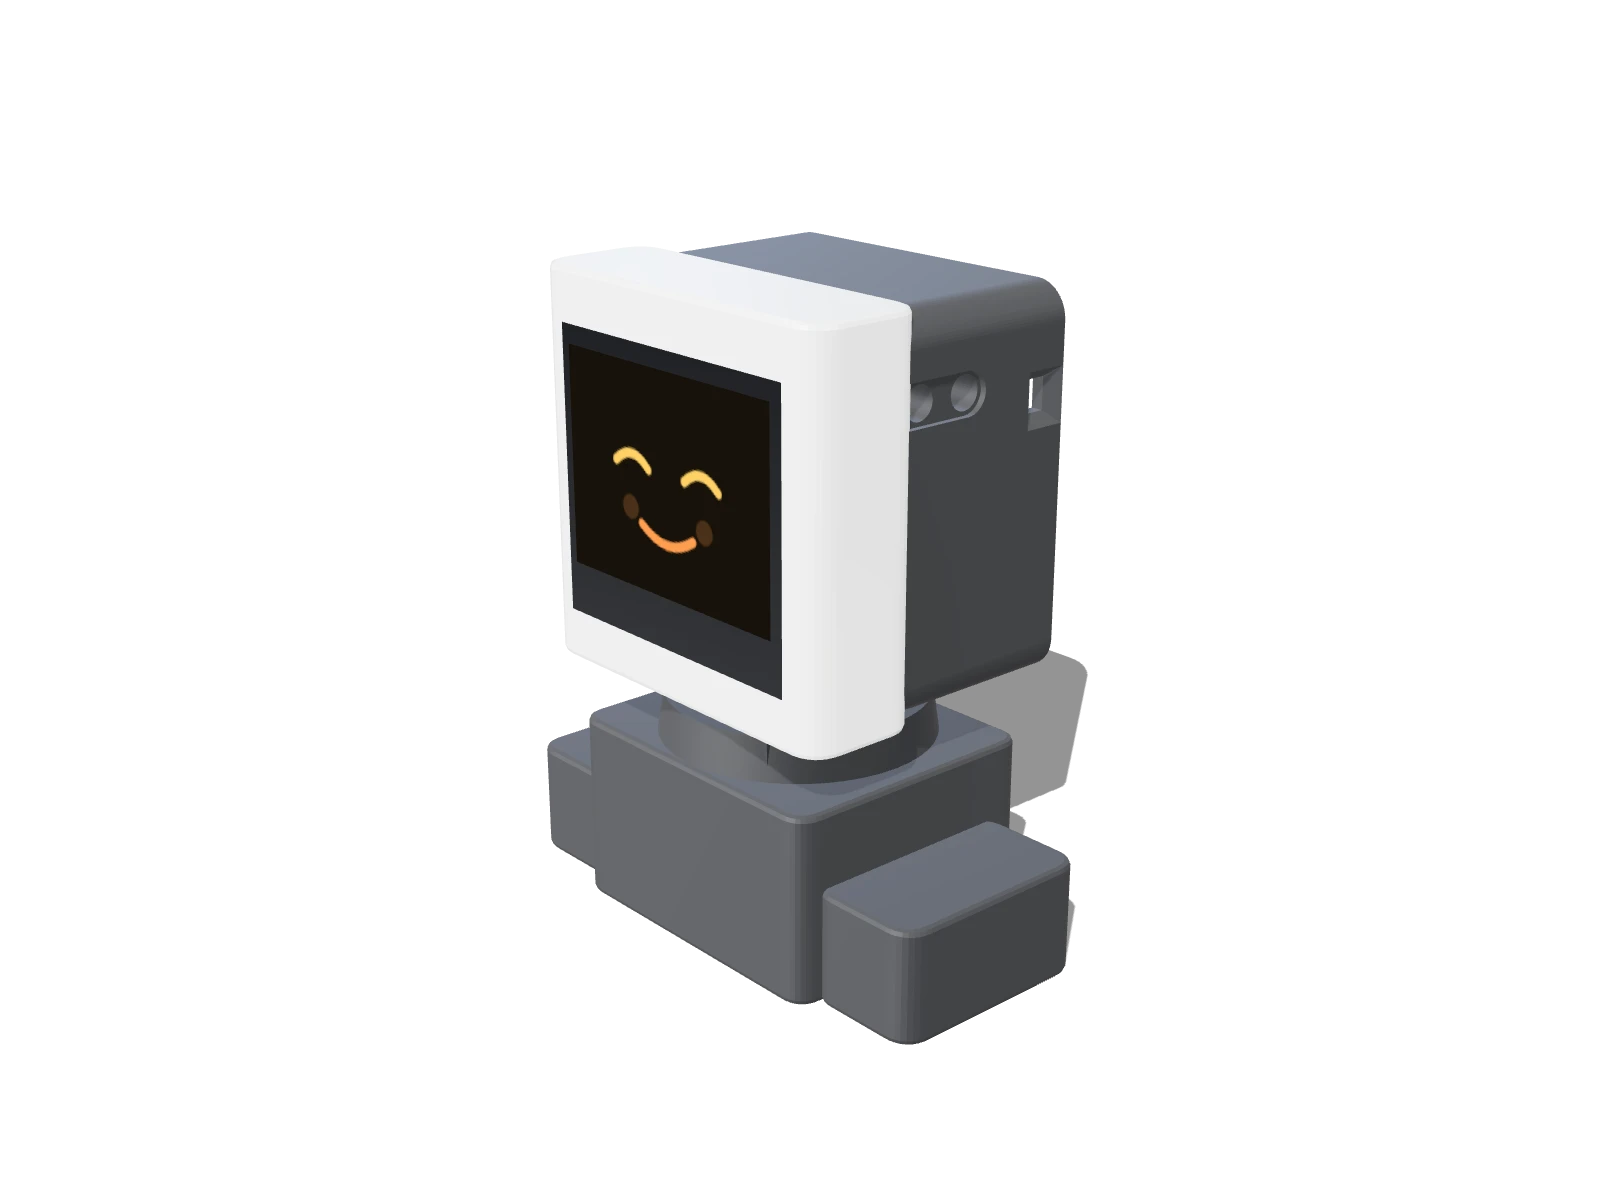
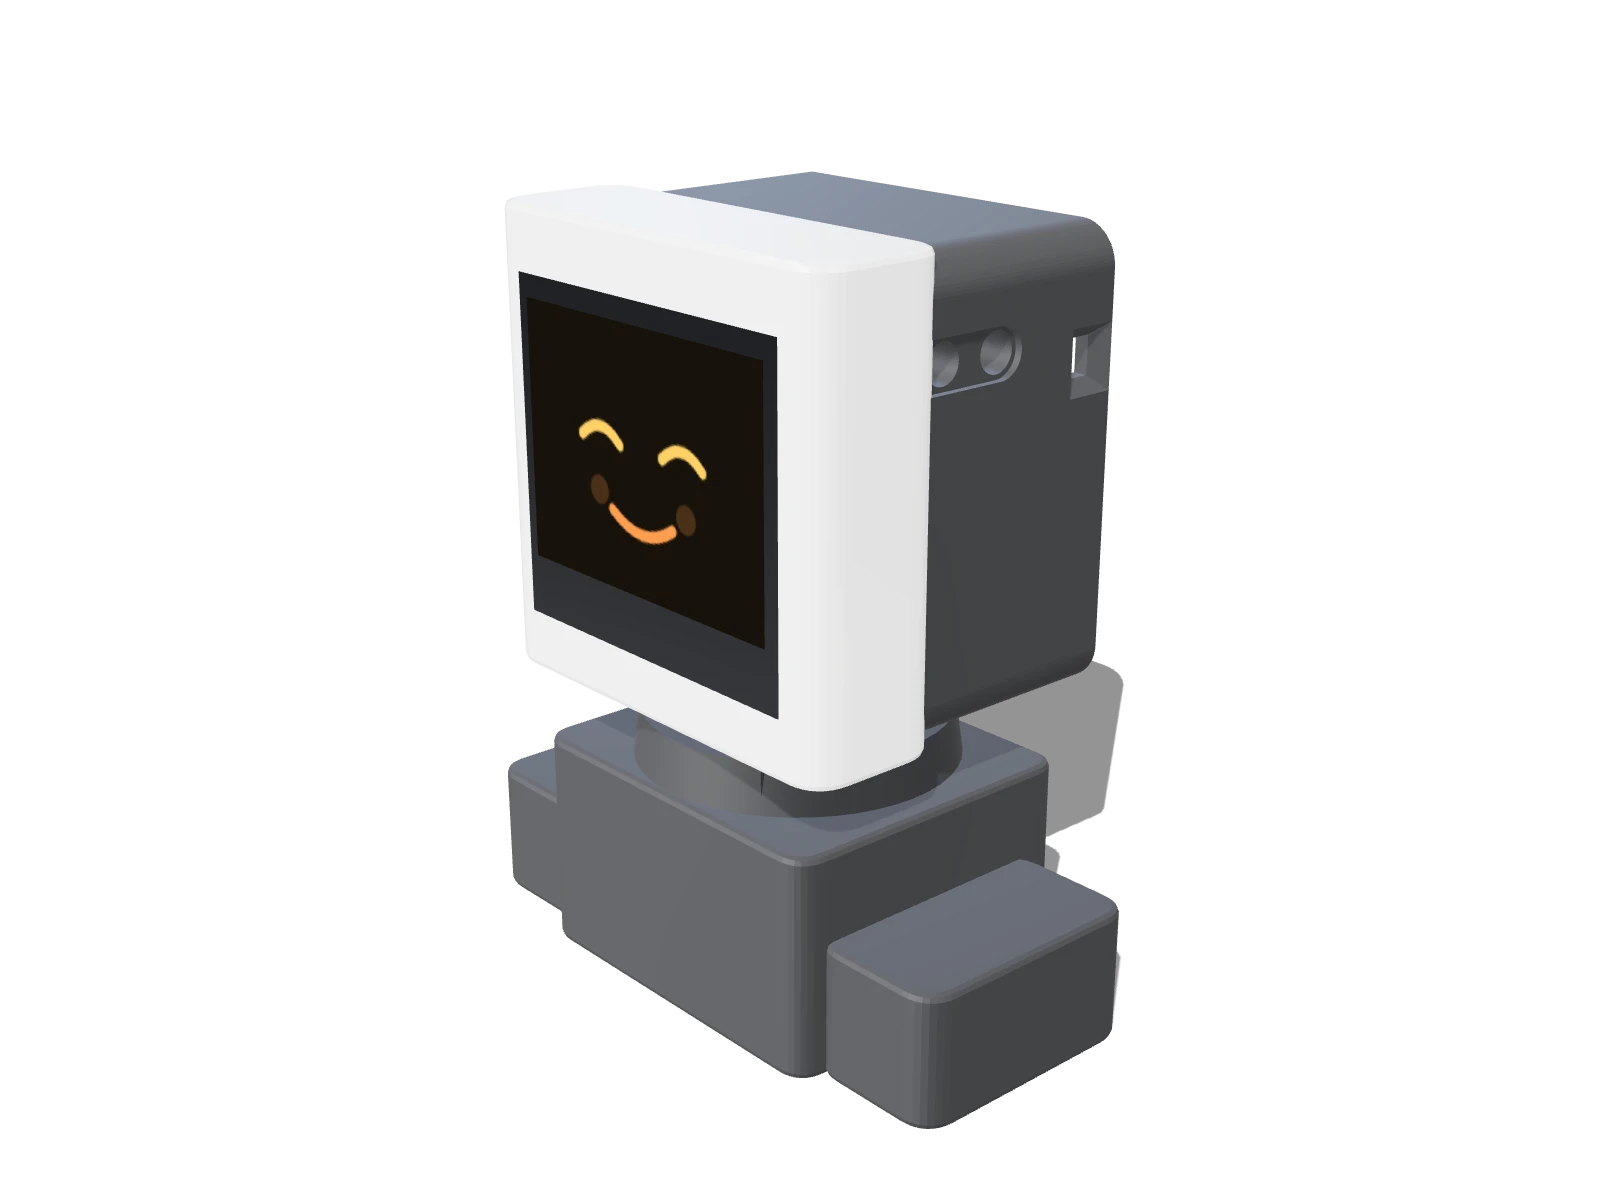
Phase 3: roles replace the expression gallery
Twelve faces is a number, and a number does not make anyone want a
robot. What a buyer wants to know is what it will be once it is on their
desk, so the section is five roles: a pet, something that answers, a
performer, a puppet, and whatever you write.

Each line is checked against the firmware source rather than
remembered — the wake word really is on-device, the phone really is what
does the face tracking, the dizziness really is the accelerometer. The
type carries a shipped flag and the section renders anything false
separately under its own heading, so an intention can never be written
as though it is in the box. Tests assert the prose contains no claim
about detecting, sensing or recognising people, because the robot does
none of those, and that it never counts faces while the atlas says
twelve and the firmware says six.

Every image is a render and is labelled as one on the card. The films
and the hero keep the real-footage caption; nothing generated goes near
it.

Changed region(s): [[0.3125, 0.1233, 0.7188, 0.9558]]

diff --git a/components/Roles.tsx b/components/Roles.tsx
@@ -1,0 +1,105 @@
+import Image from 'next/image'
+import { shippedRoles, plannedRoles } from '@/lib/roles'
+
+/**
+ * What people make it.
+ *
+ * This replaces a gallery of expressions. Twelve faces is a number, and a
+ * number does not make anyone want a robot — what they want to know is what
+ * it will be once it is on their desk.
+ *
+ * Every image here is a render and says so. The rule on this page is that a
+ * generated picture is always labelled and never sits next to a caption
+ * claiming real footage; the films and the hero carry that claim, and they
+ * are the only things that may.
+ */
+export default function Roles() {
+  const roles = shippedRoles()
+  const planned = plannedRoles()
+
+  return (
+    <section id="roles" className="wrap-wide" style={{ paddingBlock: 'var(--section-y)' }}>
+      <div className="max-w-[34ch] mb-12 md:mb-16">
+        <p className="t-label m-0 mb-4">What it becomes</p>
+        <h2 className="t-display m-0 mb-5" style={{ fontSize: 'var(--t-h2)' }}>
+          One robot. Several jobs.
+        </h2>
+        <p className="m-0 text-[var(--muted)]"
+           style={{ fontSize: 'var(--t-lead)', lineHeight: 'var(--lh-body)' }}>
+          It arrives knowing how to be a pet. Everything after that is you
+          deciding what else it should be.
+        </p>
+      </div>
+
+      <ul className="grid gap-x-6 gap-y-12 list-none p-0 m-0 sm:grid-cols-2 lg:grid-cols-3">
+        {roles.map((role, i) => (
+          <li
+            key={role.id}
+            /* The first card runs wide on desktop: it is the one that is true
+               the moment the box is open, and the rest are what you do next. */
+            className={i === 0 ? 'lg:col-span-2' : ''}
+          >
+            <div
+              className="relative overflow-hidden mb-5"
+              style={{
+                borderRadius: 'var(--radius-tile)',
+                border: '1px solid var(--line-soft)',
+                background: 'var(--surface)',
+                aspectRatio: i === 0 ? '2 / 1' : '4 / 3',
+              }}
+            >
+              <Image
+                src={`${role.image}@1600.webp`}
+                alt={role.body}
+                width={1600}
+                height={1200}
+                sizes="(max-width: 640px) 100vw, (max-width: 1024px) 50vw, 33vw"
+                className="w-full h-full object-cover"
+              />
+              <span
+                className="t-mono absolute right-3 bottom-3 px-2 py-1 text-[10px] uppercase"
+                style={{
+                  borderRadius: 999,
+                  background: 'rgba(5,5,5,.72)',
+                  border: '1px solid var(--line)',
+                  color: 'var(--muted)',
+                  letterSpacing: '.12em',
+                }}
+              >
+                render
+              </span>
+            </div>
+
+            <h3 className="m-0 mb-2" style={{ fontSize: 'var(--t-h3)', fontWeight: 700 }}>
+              {role.title}
+            </h3>
+            <p className="m-0 max-w-[42ch] text-[var(--muted)]"
+               style={{ fontSize: 'var(--t-small)', lineHeight: 1.55 }}>
+              {role.body}
+            </p>
+          </li>
+        ))}
+      </ul>
+
+      {planned.length > 0 && (
+        <div className="mt-14 pt-8" style={{ borderTop: '1px solid var(--line-soft)' }}>
+          <p className="t-label m-0 mb-4">Not yet — we are building these</p>
+          <ul className="grid gap-x-6 gap-y-5 list-none p-0 m-0 sm:grid-cols-2 lg:grid-cols-3">
+            {planned.map((role) => (
+              <li key={role.id} className="max-w-[42ch]">
+                <h3 className="m-0 mb-1.5 text-[var(--muted)]"
+                    style={{ fontSize: '17px', fontWeight: 600 }}>
+                  {role.title}
+                </h3>
+                <p className="m-0 text-[var(--muted-2)]"
+                   style={{ fontSize: '14.5px', lineHeight: 1.55 }}>
+                  {role.body}
+                </p>
+              </li>
+            ))}
+          </ul>
+        </div>
+      )}
+    </section>
+  )
+}

diff --git a/lib/roles.ts b/lib/roles.ts
@@ -1,0 +1,77 @@
+/**
+ * What people make it, rather than how many faces it has.
+ *
+ * A count of expressions is a spec, and a spec does not make anyone want a
+ * robot. What they want to know is what it will be on their desk. So this
+ * section is roles.
+ *
+ * Every line here is backed by something the firmware does today — checked
+ * against the source in pebble-robo-mono, not remembered. The honest boundary
+ * matters more here than anywhere else on the page: the robot is open, so the
+ * temptation is to describe everything it *could* be as though it already is.
+ * `shipped: false` marks a role the firmware cannot do yet, and the section
+ * renders those separately and says so. Nothing in that state may be written
+ * as though a buyer gets it in the box.
+ */
+export type Role = {
+  id: string
+  /** Two or three words. The thing it becomes. */
+  title: string
+  /** One sentence, concrete, present tense. */
+  body: string
+  /** The render that illustrates it. */
+  image: string
+  /** False when the firmware cannot do this yet. */
+  shipped: boolean
+}
+
+export const ROLES: Role[] = [
+  {
+    id: 'pet',
+    title: 'A pet',
+    body: 'It blinks, it breathes, it fidgets when left alone, and it goes '
+      + 'dizzy if you shake it. Nobody told it to — it just does that.',
+    image: '/media/render/role-pet',
+    shipped: true,
+  },
+  {
+    id: 'answers',
+    title: 'Something that answers',
+    body: 'Say "Hi, Stack-chan" and it wakes without touching the internet to '
+      + 'hear you. Then it answers out loud, turns to look at you, and will '
+      + 'take a photo to work out what you are pointing at.',
+    image: '/media/render/role-answers',
+    shipped: true,
+  },
+  {
+    id: 'performer',
+    title: 'A performer',
+    body: 'Write the lines and the head moves; it speaks them out loud with '
+      + 'its mouth following the audio, and waits for a tap when you want it '
+      + 'to. It dances too.',
+    image: '/media/render/role-performer',
+    shipped: true,
+  },
+  {
+    id: 'puppet',
+    title: 'Your face, on a robot',
+    body: 'Point your phone at yourself and it copies you — your head turns, '
+      + 'its head turns. You can throw your phone camera onto its screen too.',
+    image: '/media/render/role-puppet',
+    shipped: true,
+  },
+  {
+    id: 'yours',
+    title: 'Whatever you write',
+    body: 'JavaScript on Moddable, or Arduino and M5Unified if you prefer. '
+      + 'Apache-2.0, the whole way down, including the face you are looking at.',
+    image: '/media/render/role-yours',
+    shipped: true,
+  },
+]
+
+/** Roles the page may advertise as something the buyer gets. */
+export const shippedRoles = () => ROLES.filter((r) => r.shipped)
+
+/** Roles that exist as an intention. Rendered apart, and labelled. */
+export const plannedRoles = () => ROLES.filter((r) => !r.shipped)

diff --git a/tests/roles.test.ts b/tests/roles.test.ts
@@ -1,0 +1,68 @@
+import { describe, it, expect } from 'vitest'
+import { ROLES, shippedRoles, plannedRoles } from '@/lib/roles'
+import { readFileSync, existsSync } from 'node:fs'
+
+/**
+ * The roles section replaces a count of expressions, which means it now
+ * carries the page's claims about what the robot does. These tests exist to
+ * stop it drifting into what the robot might one day do.
+ */
+describe('roles', () => {
+  it('has an image that was actually rendered', () => {
+    for (const r of ROLES) {
+      for (const w of [800, 1600]) {
+        const p = new URL(`../public${r.image}@${w}.webp`, import.meta.url)
+        expect(existsSync(p), `${r.image}@${w}.webp is missing`).toBe(true)
+      }
+    }
+  })
+
+  it('splits what ships from what does not', () => {
+    expect([...shippedRoles(), ...plannedRoles()]).toHaveLength(ROLES.length)
+    for (const r of shippedRoles()) expect(r.shipped).toBe(true)
+  })
+
+  it('claims no capability the firmware does not have', () => {
+    // Checked against pebble-robo-mono: there is no person detection on the
+    // robot, no presence sensing, no proximity sensor driver, and no tutor
+    // or lesson mode. The phone does the face tracking and sends angles.
+    const prose = ROLES.map((r) => `${r.title} ${r.body}`).join(' ').toLowerCase()
+    for (const claim of [
+      'follows you around', 'recognises you', 'knows when you',
+      'detects when', 'senses you', 'tutor', 'lesson', 'teaches you',
+      'security', 'monitors your',
+    ]) {
+      expect(prose, `unsupported claim: "${claim}"`).not.toContain(claim)
+    }
+  })
+
+  it('never says twelve faces', () => {
+    // The shipped firmware has six emotions. The atlas on this site draws
+    // twelve. Until those agree, the page counts neither.
+    const prose = ROLES.map((r) => r.body).join(' ').toLowerCase()
+    expect(prose).not.toMatch(/twelve|12 (faces|expressions)/)
+  })
+
+  it('is short enough to read', () => {
+    for (const r of ROLES) {
+      expect(r.title.split(/\s+/).length, `${r.id} title too long`).toBeLessThanOrEqual(5)
+      expect(r.body.length, `${r.id} body too long`).toBeLessThan(230)
+    }
+  })
+})
+
+describe('the render manifest', () => {
+  const manifest = JSON.parse(
+    readFileSync(new URL('../public/media/render/manifest.json', import.meta.url), 'utf8'))
+
+  it('marks every generated asset as a render', () => {
+    // The rule is that nothing generated may sit on the page unlabelled, and
+    // no real-footage caption may end up beside one.
+    expect(manifest.assets.length).toBeGreaterThan(0)
+    for (const a of manifest.assets) expect(a.render, `${a.file}`).toBe(true)
+  })
+
+  it('gives every asset alt text', () => {
+    for (const a of manifest.assets) expect(a.alt?.length ?? 0).toBeGreaterThan(8)
+  })
+})

diff --git a/app/page.tsx b/app/page.tsx
@@ -12,6 +12,7 @@ import ReserveForm from '@/components/ReserveForm'
 import BuyBar from '@/components/BuyBar'
 import PartArt from '@/components/PartArt'
 import OpenSource from '@/components/OpenSource'
+import Roles from '@/components/Roles'
 import { OrderSteps, ChooseEdition } from '@/components/OrderSteps'
 import { KitOnly, ForEdition, SwitchEdition } from '@/components/EditionGate'
 import { SignalFlow } from '@/components/Diagrams'
@@ -198,6 +199,10 @@ export default function Page() {
             <div className="max-w-[1120px] mx-auto"><Films /></div>
           </div>
         </section>
+
+        {/* What people make it. Sits straight after the films, because the
+            films show it moving and this answers "and then what". */}
+        <Roles />
 
         {/* The brand's one graphic gesture. Once per layout — see Cut.tsx. */}
         <Cut className="py-0" />

diff --git a/tools/assets/stage.html b/tools/assets/stage.html
@@ -96,7 +96,7 @@ function frame(angleName, aspect) {
   // Fit by whichever dimension is tighter, with room to breathe.
   const fitH = radius / Math.sin(vFov / 2)
   const fitW = radius / Math.sin(2 * Math.atan(Math.tan(vFov / 2) * aspect) / 2)
-  const dist = Math.max(fitH, fitW) * 1.22
+  const dist = Math.max(fitH, fitW) * 1.04
   camera.position.copy(centre).addScaledVector(dir, dist)
   camera.lookAt(centre)
   camera.updateProjectionMatrix()
